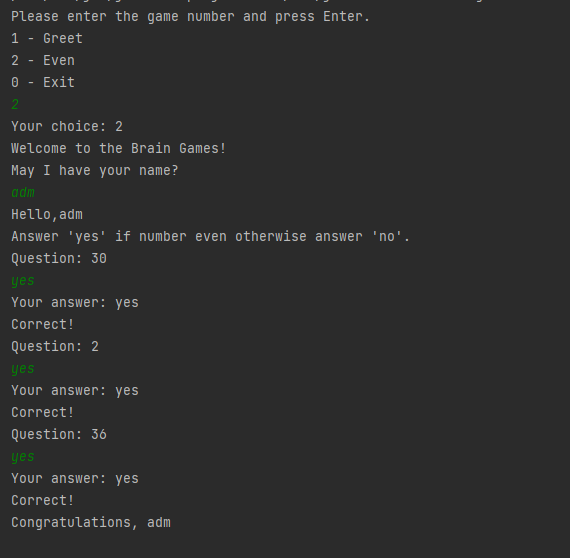
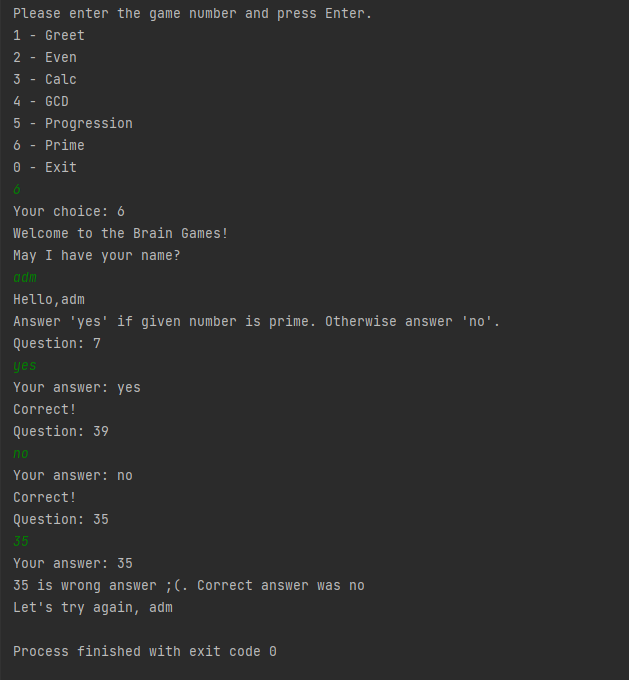
Добавление новой игры "Простое ли число"

Changed region(s): [[0.0, 0.0, 0.7158, 0.9749], [0.7456, 0.457, 0.7754, 0.4875], [0.6561, 0.3961, 0.686, 0.4265]]

diff --git a/src/main/java/hexlet/code/Engine.java b/src/main/java/hexlet/code/Engine.java
@@ -3,8 +3,9 @@ package hexlet.code;
 import hexlet.code.games.Calc;
 import hexlet.code.games.Even;
 import hexlet.code.games.GCD;
-import hexlet.code.games.Progression;
 import hexlet.code.games.GamesEnum;
+import hexlet.code.games.Prime;
+import hexlet.code.games.Progression;
 
 import java.io.BufferedReader;
 import java.io.IOException;
@@ -22,6 +23,7 @@ public class Engine {
         boolean isCalc = gamesEnum.equals(GamesEnum.Calc);
         boolean isGCD = gamesEnum.equals(GamesEnum.GCD);
         boolean isProgression = gamesEnum.equals(GamesEnum.Progression);
+        boolean isPrime = gamesEnum.equals(GamesEnum.Prime);
         if (isEven) {
             System.out.println("Answer 'yes' if number even otherwise answer 'no'.");
         } else if (isCalc) {
@@ -30,6 +32,8 @@ public class Engine {
             System.out.println("Find the greatest common divisor of given numbers.");
         } else if (isProgression) {
             System.out.println("What number is missing in the progression?");
+        } else if (isPrime) {
+            System.out.println("Answer 'yes' if given number is prime. Otherwise answer 'no'.");
         }
         int correctAn = 0;
 
@@ -47,6 +51,8 @@ public class Engine {
                 returnCheck = GCD.checkRuleGCD(playerName);
             } else if (isProgression) {
                 returnCheck = Progression.checkRuleProgression(playerName);
+            } else if (isPrime) {
+                returnCheck = Prime.checkRulePrime(playerName);
             }
             if (returnCheck) {
                 System.out.println("Correct!");
@@ -72,5 +78,14 @@ public class Engine {
             e.printStackTrace();
         }
         return inPut;
+    }
+
+    public static String getBooleanOfString(boolean bool) {
+        if (bool) {
+            return "yes";
+        } else {
+            return "no";
+        }
+
     }
 }

diff --git a/src/main/java/hexlet/code/games/Prime.java b/src/main/java/hexlet/code/games/Prime.java
@@ -1,0 +1,30 @@
+package hexlet.code.games;
+
+import hexlet.code.Engine;
+
+import java.math.BigInteger;
+
+public class Prime {
+    public static boolean checkRulePrime(String playerName) {
+        int randomInt = Engine.getRandomInt();
+        System.out.println("Question: " + randomInt);
+        boolean isPrime = isPrime(randomInt);
+        String inPut = Engine.getInputKey();
+        System.out.println("Your answer: " + inPut);
+
+        if (inPut.equals("yes") && isPrime || inPut.equals("no") && !isPrime) {
+            return true;
+        } else {
+            System.out.println(inPut + " is wrong answer ;(. Correct answer was " + Engine.getBooleanOfString(isPrime));
+            System.out.println("Let's try again, " + playerName);
+            return false;
+        }
+    }
+
+    private static boolean isPrime(int num) {
+        Integer integer = num;
+        BigInteger bigInteger = BigInteger.valueOf(num);
+        boolean probablePrime = bigInteger.isProbablePrime((int) Math.log(integer));
+        return probablePrime;
+    }
+}

diff --git a/src/main/java/hexlet/code/games/Even.java b/src/main/java/hexlet/code/games/Even.java
@@ -5,7 +5,6 @@ import hexlet.code.Engine;
 public class Even {
 
 
-
     public static boolean checkRuleEven(String playerName) {
         int randomInt = 0;
         randomInt = Engine.getRandomInt();
@@ -17,21 +16,11 @@ public class Even {
         if (inPut.equals("yes") && even || inPut.equals("no") && !even) {
             return true;
         } else {
-            System.out.println(inPut + " is wrong answer ;(. Correct answer was " + getBooleanOfString(even));
+            System.out.println(inPut + " is wrong answer ;(. Correct answer was " + Engine.getBooleanOfString(even));
             System.out.println("Let's try again, " + playerName);
             return false;
         }
     }
 
-
-
-    private static String getBooleanOfString(boolean bool) {
-        if (bool) {
-            return "yes";
-        } else {
-            return "no";
-        }
-
-    }
 
 }

diff --git a/src/main/java/hexlet/code/App.java b/src/main/java/hexlet/code/App.java
@@ -12,7 +12,7 @@ public class App {
         boolean exitWhile = false;
         while (!exitWhile) {
             System.out.println("Please enter the game number and press Enter.");
-            System.out.println("1 - Greet \n2 - Even \n3 - Calc \n4 - GCD \n5 - Progression \n0 - Exit");
+            System.out.println("1 - Greet \n2 - Even \n3 - Calc \n4 - GCD \n5 - Progression \n6 - Prime \n0 - Exit");
             if (sc.hasNextInt()) {
                 choseUser = sc.nextInt();
                 exitWhile = true;
@@ -39,6 +39,8 @@ public class App {
                     Engine.run(nameUser, GamesEnum.GCD);
                 case "5":
                     Engine.run(nameUser, GamesEnum.Progression);
+                case "6":
+                    Engine.run(nameUser, GamesEnum.Prime);
                 default:
             }
 

diff --git a/src/main/java/hexlet/code/games/GamesEnum.java b/src/main/java/hexlet/code/games/GamesEnum.java
@@ -1,5 +1,5 @@
 package hexlet.code.games;
 
 public enum GamesEnum {
-    Even, Calc, GCD, Progression
+    Even, Calc, GCD, Progression, Prime
 }
